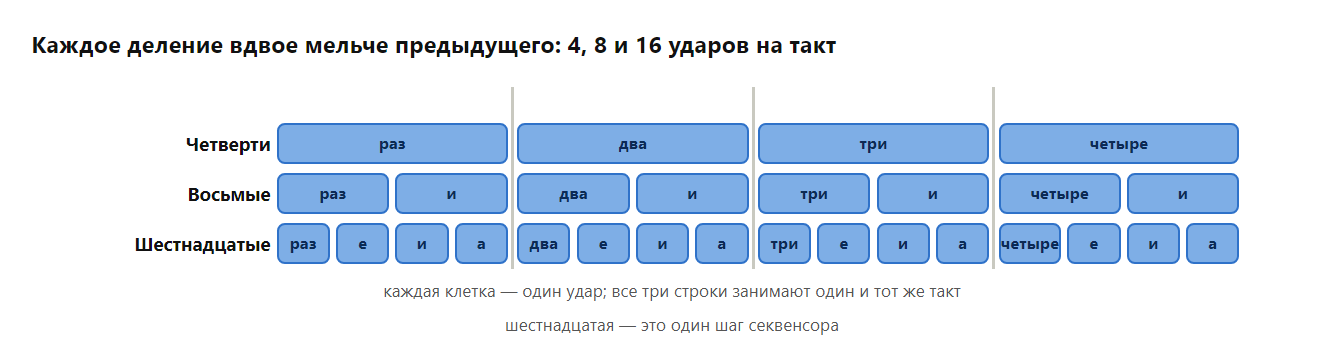
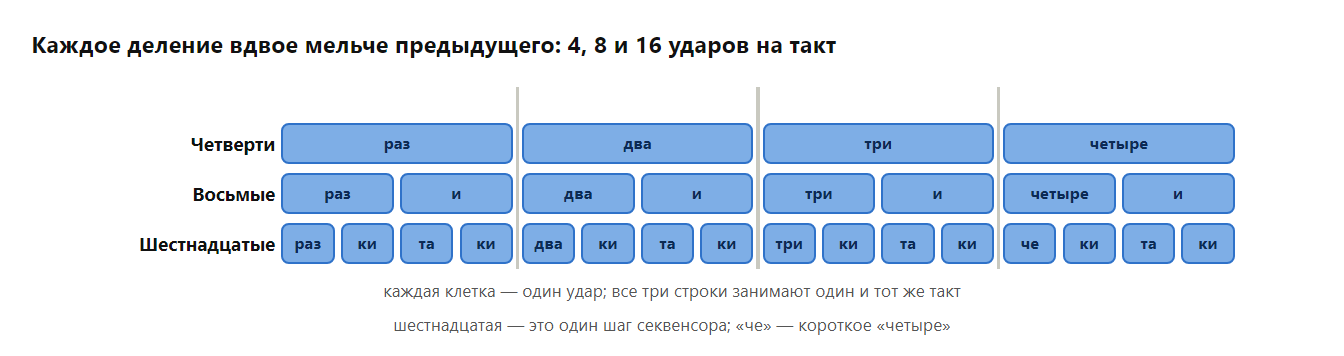
Глава 3: счёт шестнадцатых «раз-ки-та-ки» и справка о ритмических слогах

diff --git a/03-ritm-i-metronom.md b/03-ritm-i-metronom.md
@@ -20,15 +20,19 @@
 | --- | --- | --- | --- |
 | **Четверти** (quarter notes) | 1 | 4 | «раз, два, три, четыре» |
 | **Восьмые** (eighth notes) | 2 | 8 | «раз-и, два-и, три-и, четыре-и» |
-| **Шестнадцатые** (sixteenth notes) | 4 | 16 | «раз-е-и-а, два-е-и-а…» |
+| **Шестнадцатые** (sixteenth notes) | 4 | 16 | «раз-ки-та-ки, два-ки-та-ки…» |
 
-Названия идут от долей целой ноты: четверть — её одна четвёртая, восьмая — одна восьмая. В такте из четырёх долей как раз четыре четверти, восемь восьмых и шестнадцать шестнадцатых. «И» всегда стоит ровно посередине между долями, поэтому восьмые и шестнадцатые считаются одинаково на «раз» и «и», а у шестнадцатых добавляются «е» и «а» между ними. Такой счёт пришёл из английских школ («one-e-and-a»); главное — чтобы четыре слога были одинаковой длины.
+Названия идут от долей целой ноты: четверть — её одна четвёртая, восьмая — одна восьмая. В такте из четырёх долей как раз четыре четверти, восемь восьмых и шестнадцать шестнадцатых. У восьмых «и» стоит ровно посередине доли. У шестнадцатых доля делится на четыре слога «раз-ки-та-ки»: середина доли приходится на «та», а «ки» — между ними. На быстром темпе длинное «четыре» сокращают до «че»: «че-ки-та-ки». Главное — чтобы все четыре слога были одинаковой длины.
 
 ![Четверти, восьмые и шестнадцатые в одном такте со счётом](images/03-delenie-doli.png)
 
 *Четверти, восьмые и шестнадцатые в одном такте со счётом: каждое деление вдвое мельче предыдущего*
 
 > 👂 **Попробуйте.** Поставьте метроном на 60 BPM и стучите пальцем по столу: один такт четвертями (стук на каждый щелчок), один такт восьмыми (два стука на щелчок), один такт шестнадцатыми (четыре стука). Щелчки не меняются, а музыка с каждым тактом кажется вдвое быстрее. Так в песнях создают ощущение ускорения, не меняя темп.
+
+> 📜 **Историческая справка: откуда слоги для счёта.** Проговаривать ритм слогами придумали давно: в Южной Индии для этого есть целое искусство — [коннакол](https://en.wikipedia.org/wiki/Konnakol) (статья на англ.). В Европе в XIX веке французы Пьер Галлен, Эме Пари и Эмиль Шеве дали длительностям слоговые имена: четверть — «та», две восьмые — «та-те», четыре шестнадцатые — «та-фа-те-фе» ([система Галлена — Пари — Шеве](https://en.wikipedia.org/wiki/Galin-Paris-Chev%C3%A9_system), статья на англ.). Венгерский композитор [Золтан Кодай](https://ru.wikipedia.org/wiki/Кодай,_Золтан) переделал их в «та», «ти-ти» и «ти-ри-ти-ри»; по его системе детей учат ритму во многих странах.
+>
+> В США [считают](https://en.wikipedia.org/wiki/Counting_(music)) «1 e & a»: числа стоят на долях, «&» (and, «и») — посередине, «e» и «a» — на шестнадцатых. В 1996 году американские преподаватели Ричард Хоффман, Уильям Пелто и Джон Уайт предложили систему [Takadimi](https://en.wikipedia.org/wiki/Takadimi) (статья на англ.) со слогами «та-ка-ди-ми», заимствовав идею у индийской ритмики. В русских учебниках для восьмых принят счёт «раз-и», а единого счёта шестнадцатых нет: учителя берут слоги из разных систем. В этой книге — «раз-ки-та-ки»: число остаётся на доле, а короткие слоги легко проговаривать быстро.
 
 Секвенсор работает с теми же делениями. В Circuit Tracks каждая доля делится на четыре **шага** (steps), то есть шаг — это шестнадцатая. В такте 4 доли по 4 шага — 16 шагов, именно поэтому у большинства грувбоксов 16 кнопок или пэдов для шагов.
 
@@ -140,7 +144,7 @@
 
 ### Шаг 6. Шестнадцатые
 
-Поставьте метроном на 60 BPM. Играйте по хай-хэту шестнадцатые, чередуя руки: правая, левая, правая, левая — и считайте «раз-е-и-а, два-е-и-а». Правая рука всегда попадает на «раз» и «и», левая — на «е» и «а». Когда пойдёт ровно, добавьте бочку на каждую долю.
+Поставьте метроном на 60 BPM. Играйте по хай-хэту шестнадцатые, чередуя руки: правая, левая, правая, левая — и считайте «раз-ки-та-ки, два-ки-та-ки». Правая рука всегда попадает на число и «та», левая — на «ки». Когда пойдёт ровно, добавьте бочку на каждую долю.
 
 ![Шестнадцатые на хэте поочерёдно руками, бочка на каждую долю](images/03-shestnadtsatye.png)
 

diff --git a/99-slovar.md b/99-slovar.md
@@ -103,7 +103,7 @@
 | **Четверть** (quarter note) | длительность в одну **долю**: четыре четверти на **такт**. Считается «раз, два, три, четыре». |
 | **Четыре на пол** (four on the floor) | **бит**, в котором **бочка** бьёт на каждую **долю**. Основа диско и хауса. |
 | **Шаг** (step) | одна клетка **секвенсора**, четверть **доли**. 16 шагов = один **такт**. На шаг ставится удар, нота или **пауза**. |
-| **Шестнадцатая** (sixteenth note) | четверть **доли**: 16 на **такт**. Считается «раз-е-и-а, два-е-и-а…». На Circuit Tracks один **шаг** — это шестнадцатая. |
+| **Шестнадцатая** (sixteenth note) | четверть **доли**: 16 на **такт**. Считается «раз-ки-та-ки, два-ки-та-ки…». На Circuit Tracks один **шаг** — это шестнадцатая. |
 | **Электронная ударная установка** (electronic drum kit) | резиновые **пэды** и педали вместо барабанов и тарелок; звук берётся из памяти и идёт в наушники или колонки. |
 
 ---
